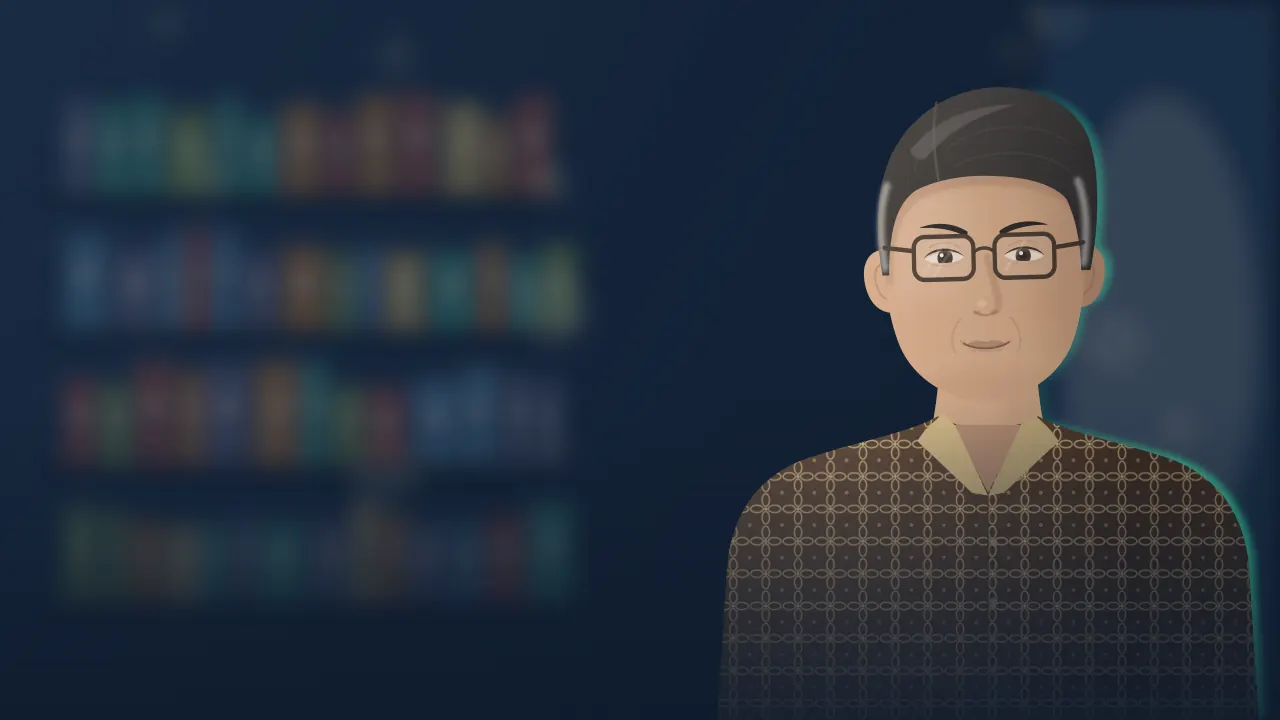
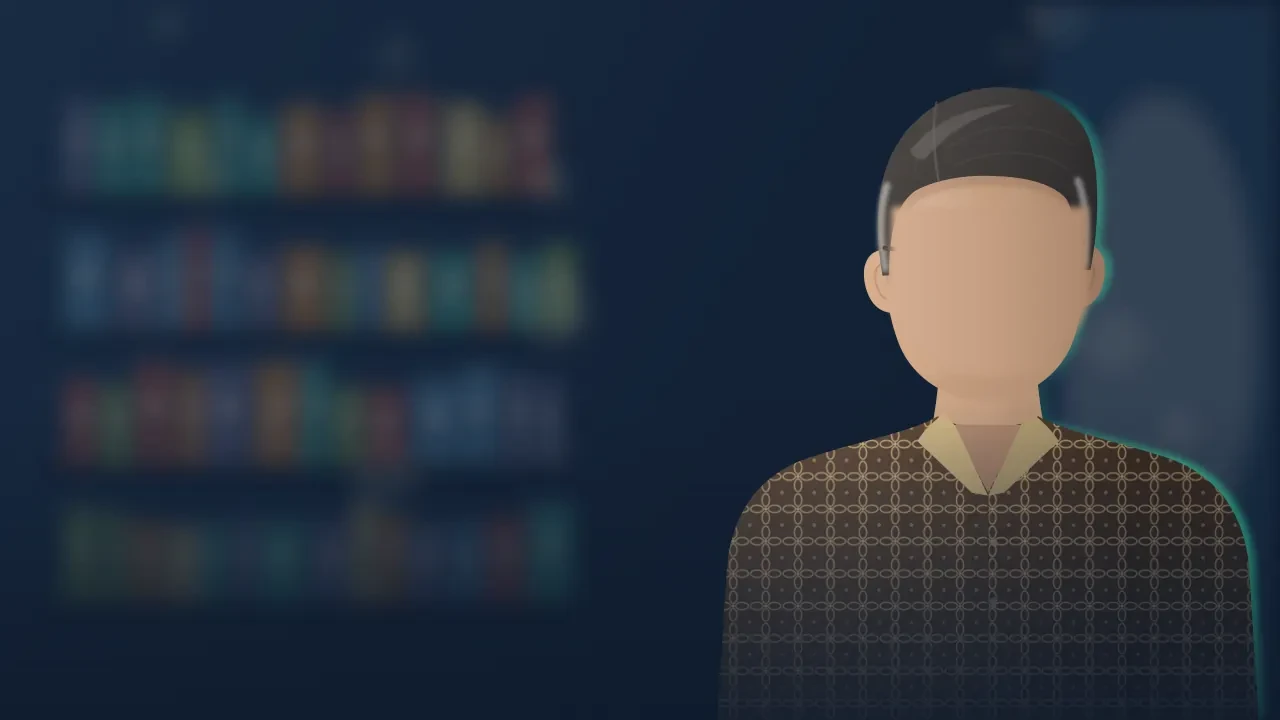
Ganti ilustrasi kamera: wajah polos tanpa fitur

Changed region(s): [[0.6875, 0.275, 0.875, 0.3972], [0.8438, 0.4278, 0.875, 0.4583], [0.75, 0.4583, 0.7812, 0.4889]]

diff --git a/public/images/SUMBER.md b/public/images/SUMBER.md
@@ -1,12 +1,12 @@
 ## Sumber gambar
 
-Situs ini tidak memakai foto. Semua gambar adalah karya sendiri (ilustrasi vektor yang diekspor ke WebP/JPG), jadi tidak ada lisensi pihak ketiga. Tokoh digambar sebagai ilustrasi fiktif, bukan wajah orang sungguhan. Latar buram di belakang tokoh (rak, panel kontrol) ikut digambar dalam ilustrasi yang sama.
+Situs ini tidak memakai foto. Semua gambar adalah karya sendiri (ilustrasi vektor yang diekspor ke WebP/JPG), jadi tidak ada lisensi pihak ketiga. Tokoh digambar sebagai ilustrasi fiktif dengan wajah polos (tanpa mata, alis, hidung, mulut), jadi tidak menyerupai orang sungguhan. Latar buram di belakang tokoh (rak, panel kontrol) ikut digambar dalam ilustrasi yang sama.
 
 | Berkas | Isi | Pembuat | Lisensi |
 |---|---|---|---|
-| kamera/mc.webp | Ilustrasi pemandu siaran fiktif (headset) di bingkai kamera MC | Dibuat sendiri (PintuWeb) | Karya sendiri |
-| kamera/n1.webp | Ilustrasi pemateri fiktif berkacamata dan batik di bingkai Kamera N1 | Dibuat sendiri (PintuWeb) | Karya sendiri |
-| kamera/n2.webp | Ilustrasi pemateri fiktif di bingkai Kamera N2 | Dibuat sendiri (PintuWeb) | Karya sendiri |
+| kamera/mc.webp | Ilustrasi pemandu siaran fiktif (headset, wajah polos) di bingkai kamera MC | Dibuat sendiri (PintuWeb) | Karya sendiri |
+| kamera/n1.webp | Ilustrasi pemateri fiktif berbatik, wajah polos, di bingkai Kamera N1 | Dibuat sendiri (PintuWeb) | Karya sendiri |
+| kamera/n2.webp | Ilustrasi pemateri fiktif berhijab, wajah polos, di bingkai Kamera N2 | Dibuat sendiri (PintuWeb) | Karya sendiri |
 | ../og.jpg | Tangkapan layar beranda situs ini (1200x630) untuk pratinjau tautan | Dibuat sendiri (PintuWeb) | Karya sendiri |
 
 Varian WebP ber-hash di public/_img dihasilkan otomatis dari berkas di atas oleh scripts/static-images.mjs.
